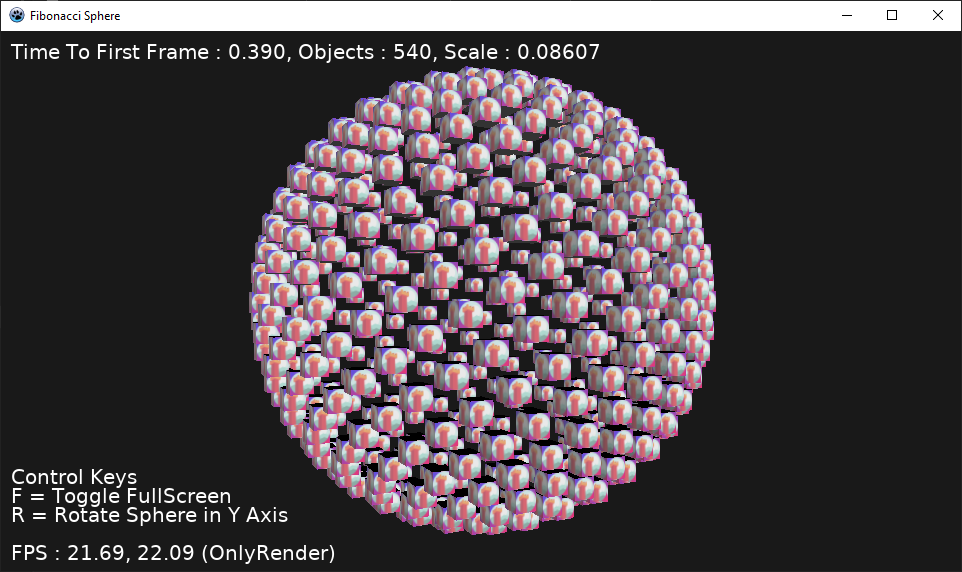
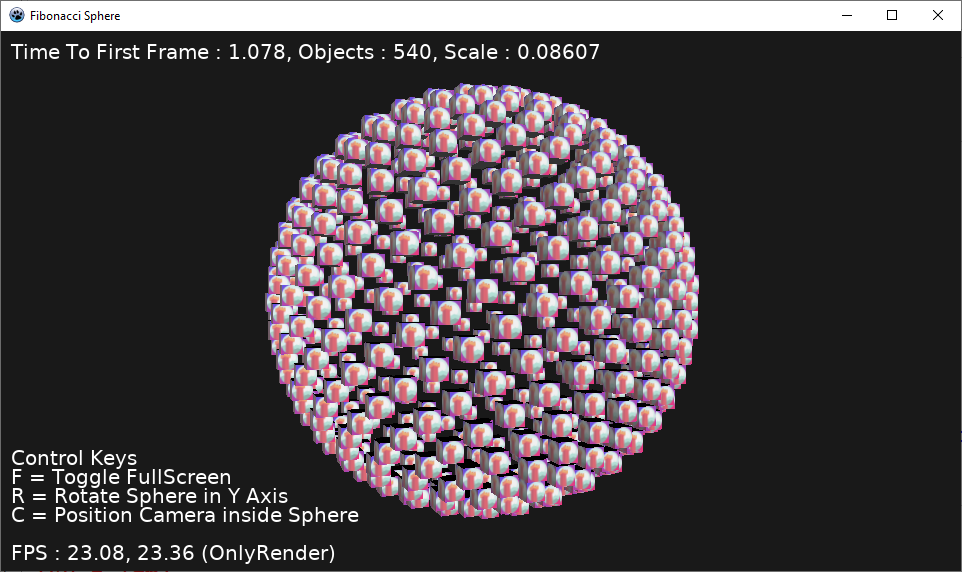
Add camera repositioning, update readme + image

diff --git a/README.md b/README.md
@@ -20,6 +20,8 @@ Pressing the 'F' key will switch the application between FullScreen and windowed
 
 Pressing the 'R' key will make the sphere rotate in the Y (vertical) Axis. Repeatedly pressing the 'R' key will pause / resume the sphere rotation.
 
+Pressing the 'C' key will move the camera inside the sphere. Pressing the 'C' key again will restore the previous position.
+
 The application additionally supports CGE's default navigation keys and mouse controls - note that this can be confusing if the sphere is already rotating using the R key...
 
 ### Hacking the Code
